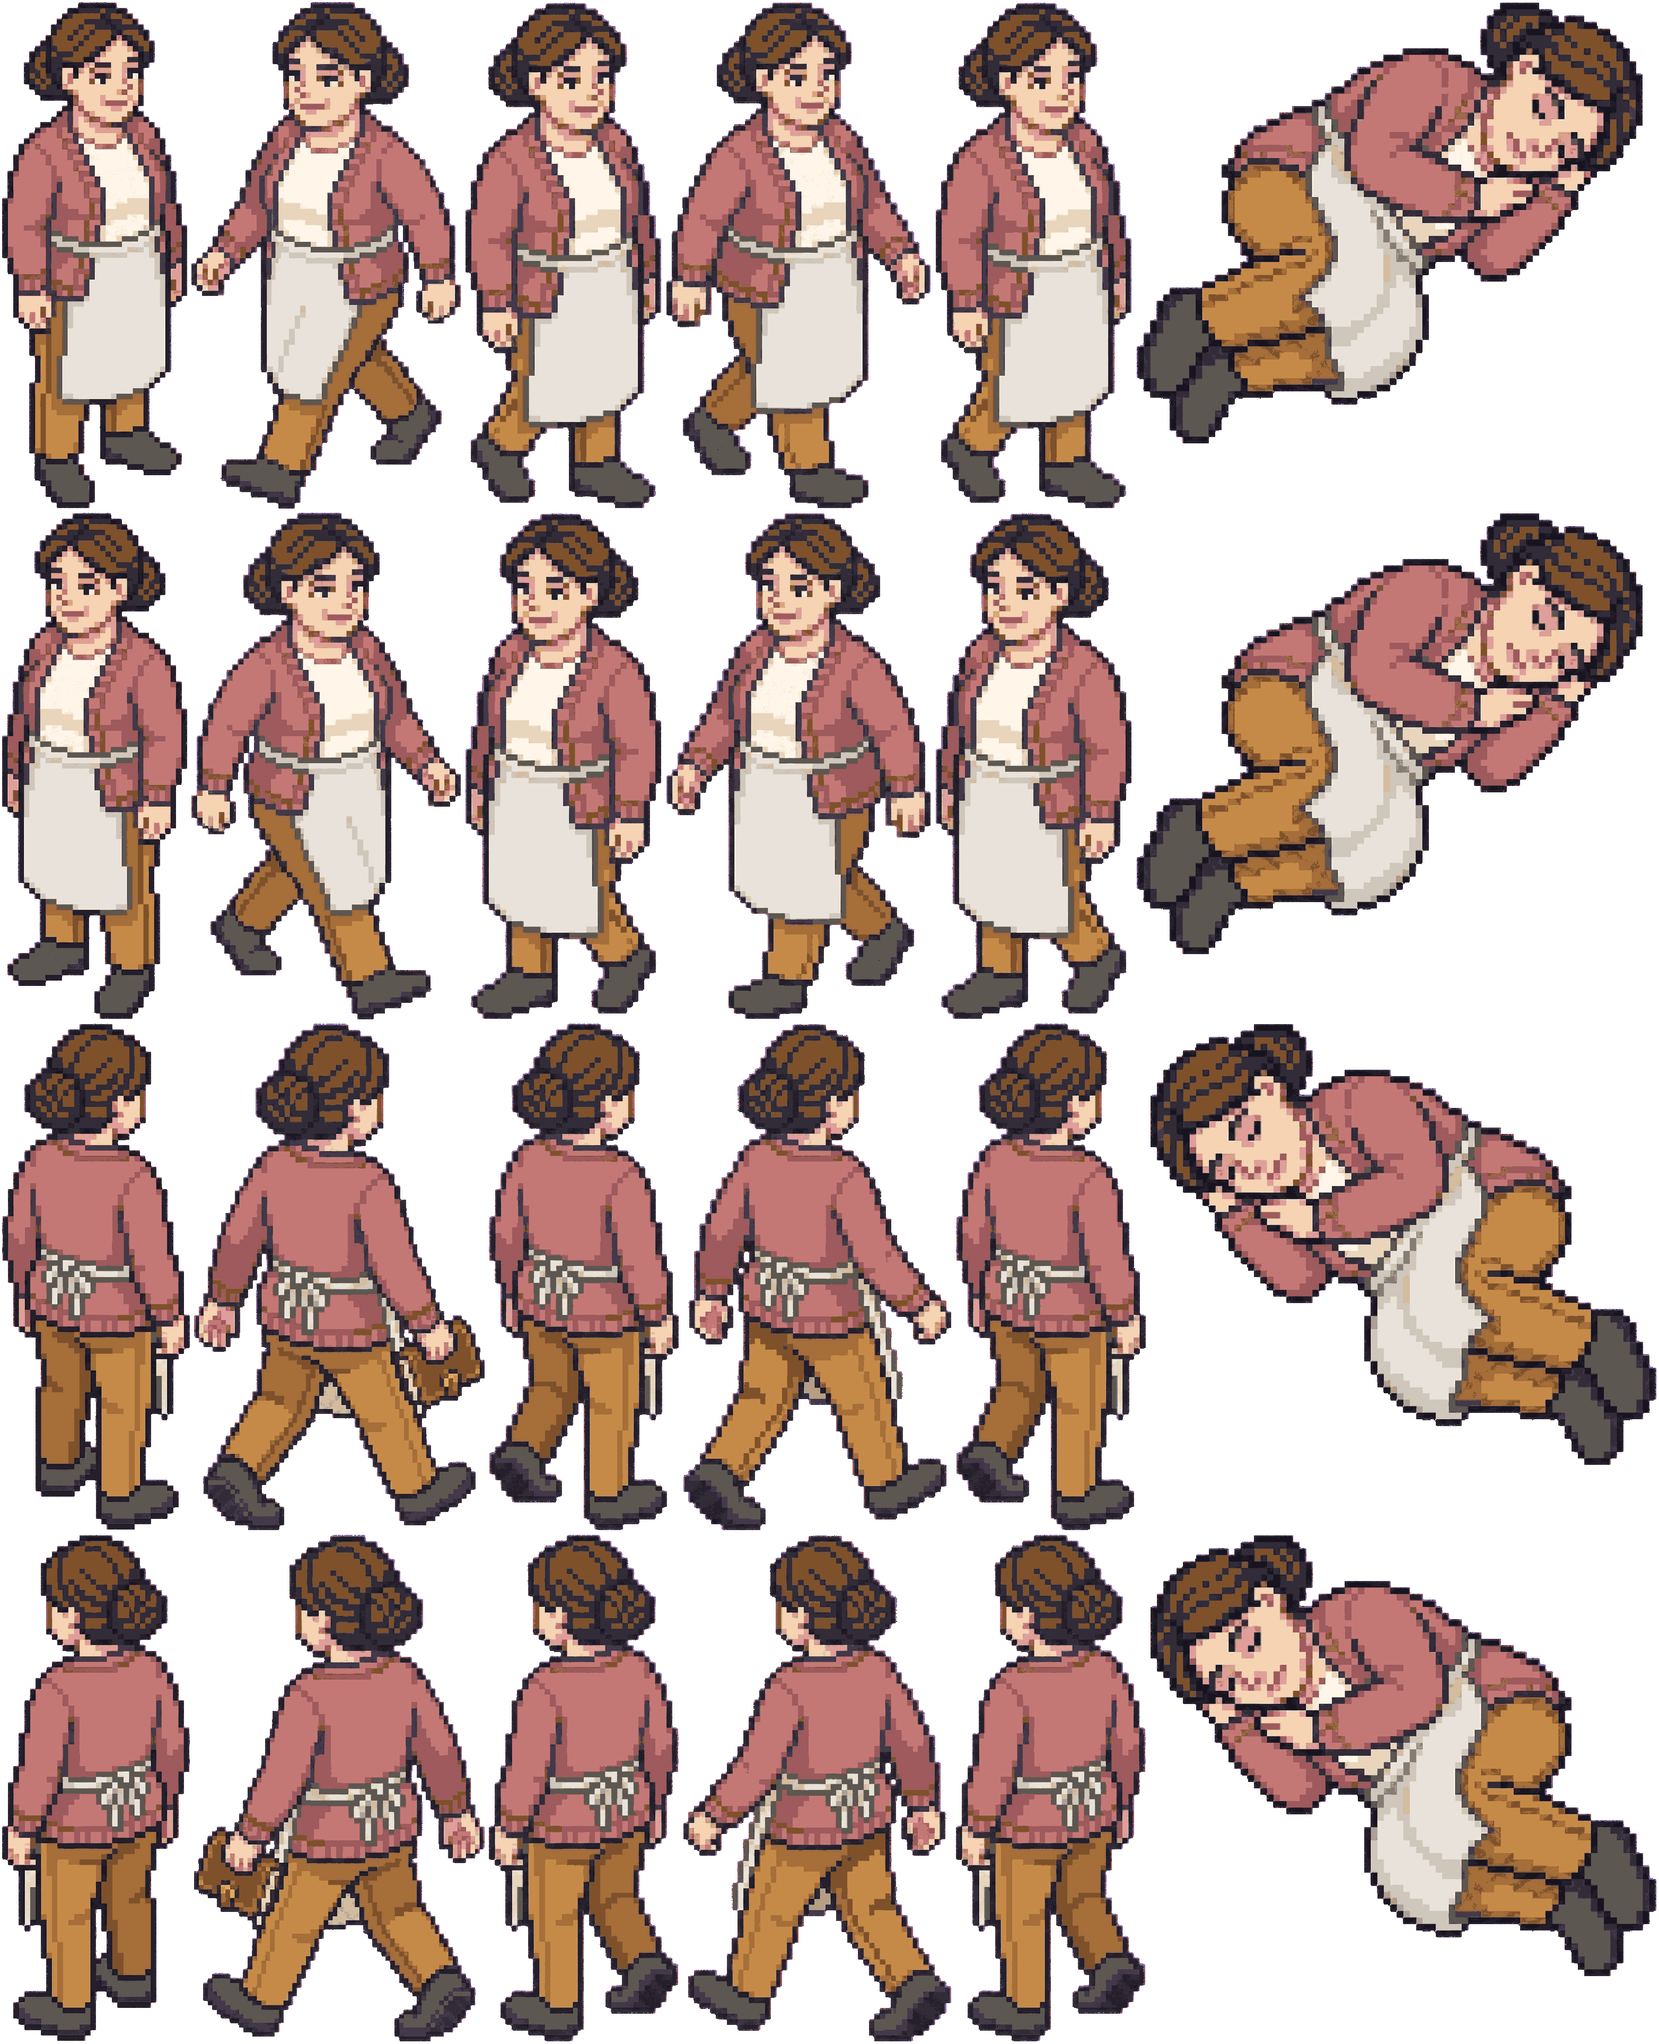
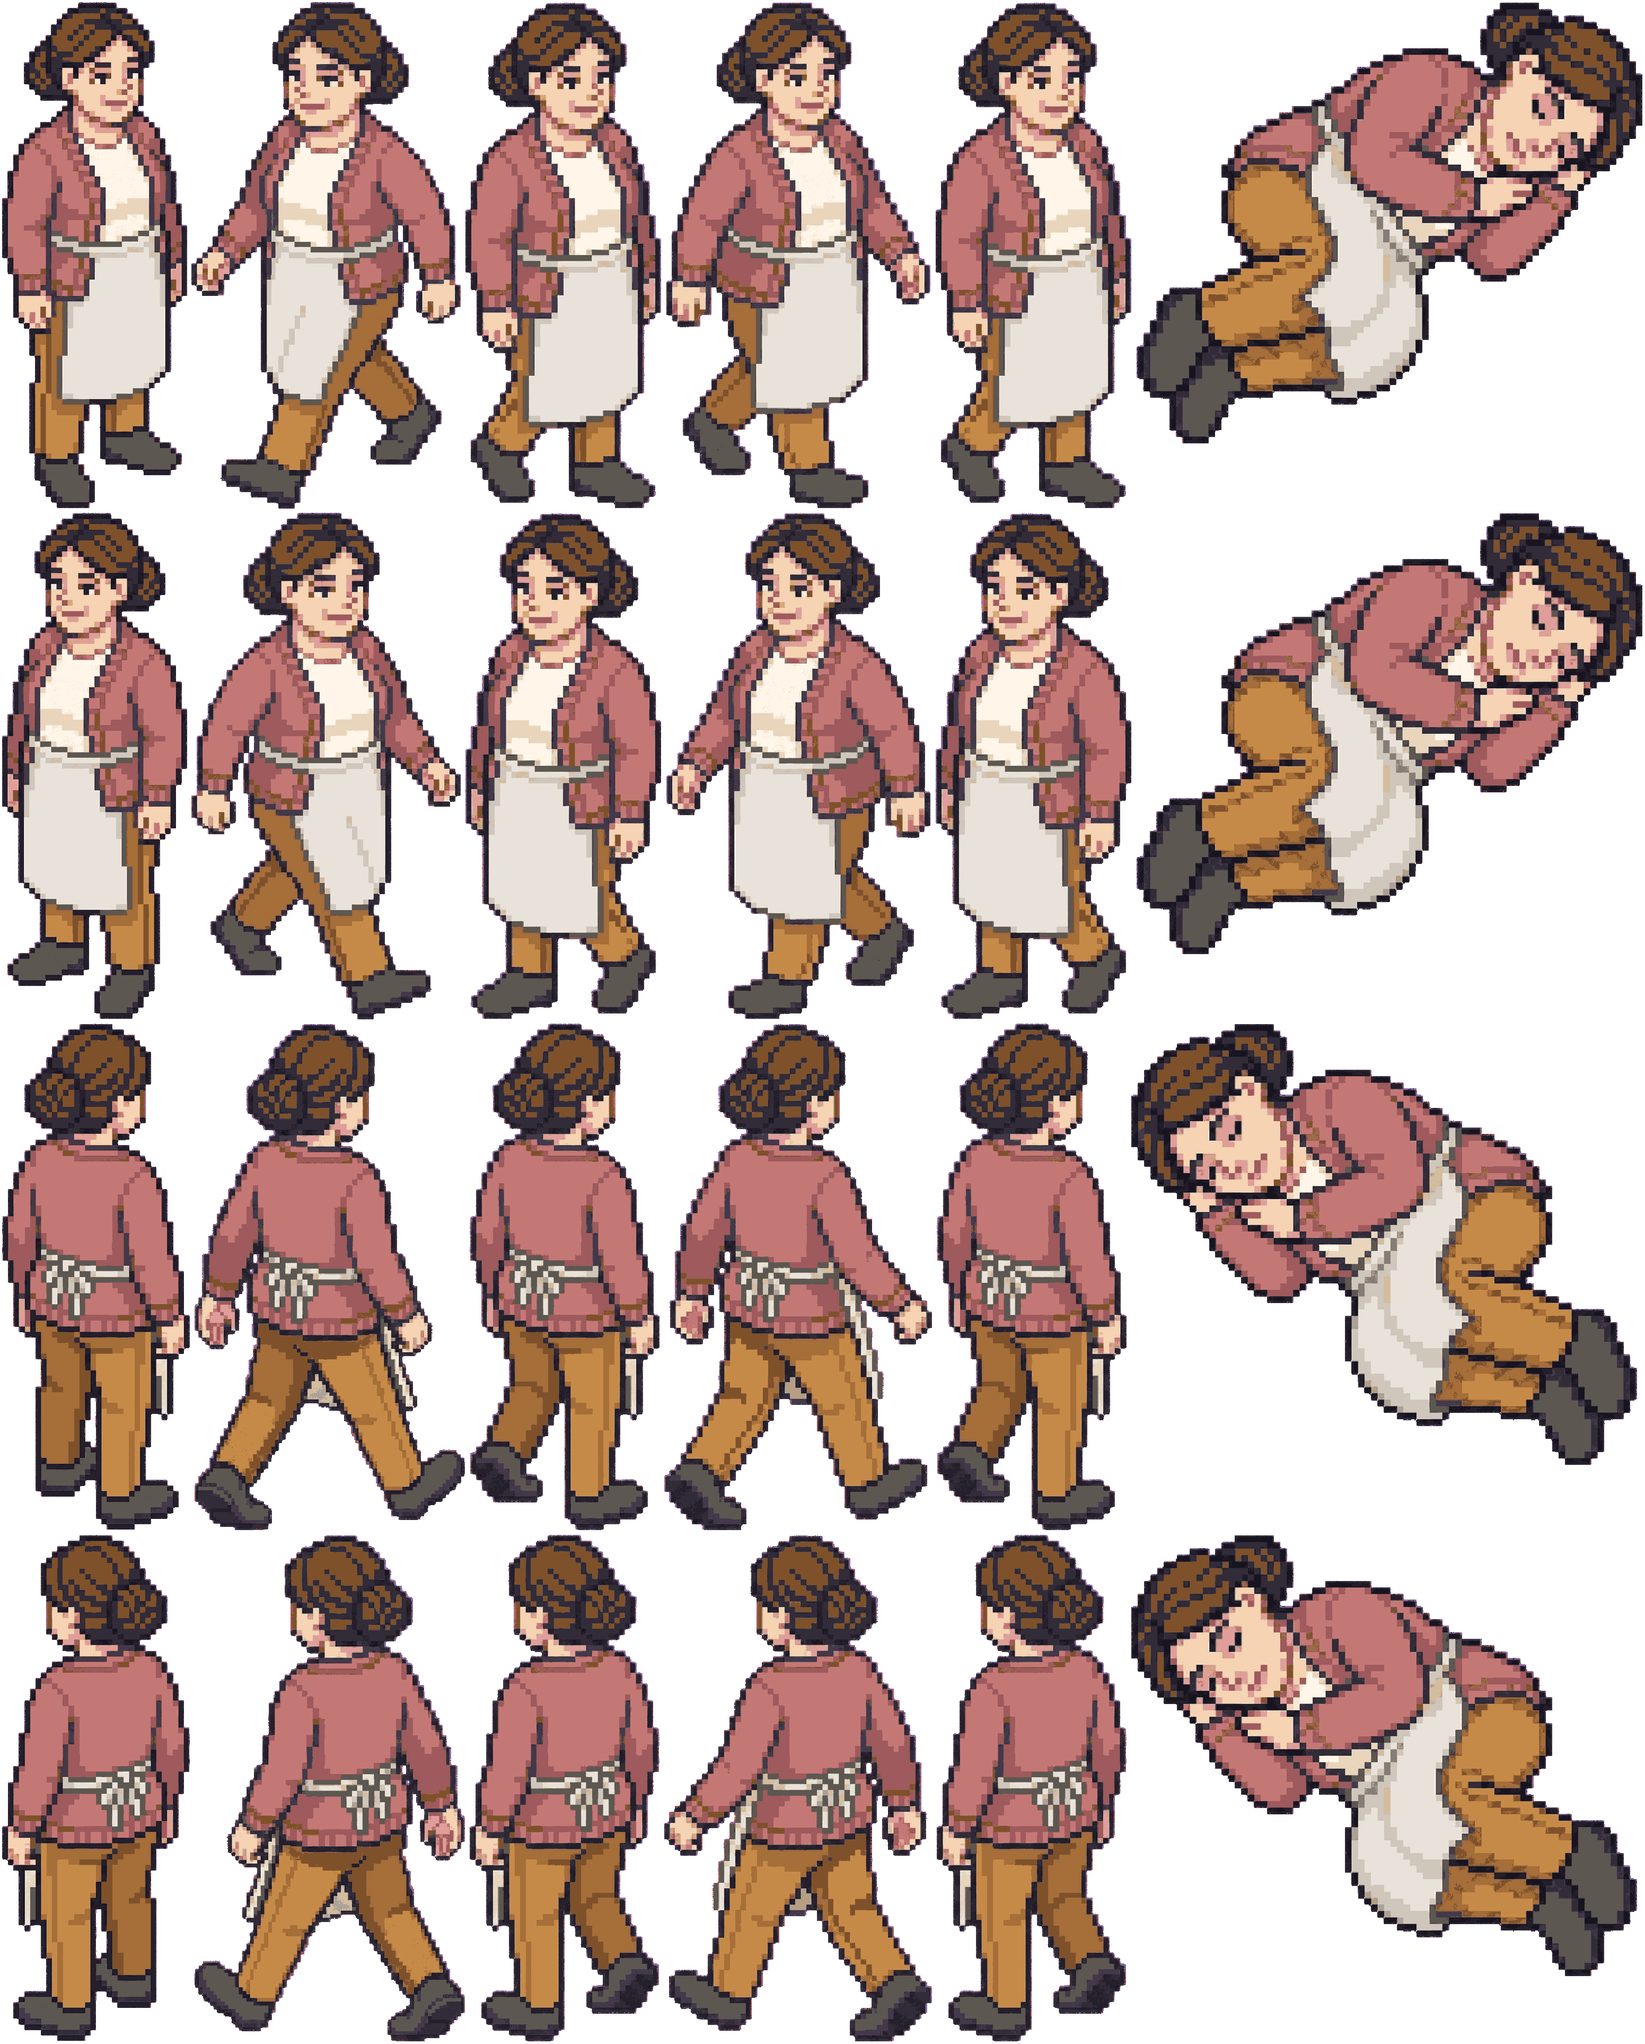
forge-gates T3: Salma is fixed, and the gate that let her replacement through
The second TACTICAL GEAR is gone. `salma ne/contact-a` — a large brown bundle
in her right hand in one frame of four, +24.3% opaque area, worse than the
1.1855 that shipped the caption — is a clean cell for $0.2750. Two cells of
twenty-four moved (contact-a-ne and its mirror); her ne stride trio still
passes; the SE strip is byte-identical. Debt: 4 -> 3.

★ THE FIRST REPLACEMENT WAS WORSE, AND FINDING OUT WHY IS THE POINT.

CAST_ATTEMPTS=6 drew c3, which cleared the generator on its first try. The
audit then red it: head 0.3366 against 0.20. I checked whether the metric was
the problem — headRegionDiff re-centres on each image's own bbox, and an
outstretched arm could have moved the head sideways — and measured it against
a feet-anchored variant across all 40 authored cells. They agree to 0.0003 on
the cell in question. The hypothesis was wrong; the head drift is real.

The actual cause: `coherenceGateV4`, which runs BEFORE the money is spent and
decides which candidate ships, asked palette + silhouette. `frameCoherenceGate`,
which runs AFTER over the committed cells, asks palette + silhouette + HEAD.
The pre-spend gate was a strict subset of the post-hoc audit. `omar
ne/contact-a` at 0.2379 is the same hole, already in the tree. And
`coherenceGateV4` had no test at all — the gate that chooses every walk frame
in the cast.

With the head term the generator rejected c3 on its own, drew c4 (palette),
[…]

diff --git a/packages/forge/src/mirror.test.ts b/packages/forge/src/mirror.test.ts
@@ -1,10 +1,12 @@
 import { readFileSync } from 'node:fs'
 import { describe, expect, it } from 'vitest'
 import { decodePng, type RawImage } from './post/raw.js'
-import { FACINGS, POSES_V2, mirrorX, opaqueBbox } from './sheet.js'
+import {
+  FACINGS, POSES_V2, HEAD_DIFF_MAX, frameCoherenceGate, mirrorX, opaqueBbox,
+} from './sheet.js'
 import {
   AUTHORED_FACINGS, CELL_NAMES_V4, STRIP_POSES_V4, WALK_CYCLE_V4,
-  deriveSheet, sleepAxisDeg, sleepAxisGate, type AuthoredSet,
+  coherenceGateV4, deriveSheet, sleepAxisDeg, sleepAxisGate, type AuthoredSet,
 } from './mirror.js'
 
 // 4×4 with a single opaque marker pixel — asymmetric so flips are detectable.
@@ -119,5 +121,58 @@ describe('sleepAxisGate', () => {
     const amara = await sleeper('amara')
     expect(sleepAxisGate(amara)).toHaveLength(1)
     expect(sleepAxisGate(mirrorX(amara))).toEqual([])
+  })
+})
+
+
+// ── ★ THE PRE-SPEND GATE MUST NOT BE WEAKER THAN THE POST-HOC AUDIT ───────────────────────
+//
+// `coherenceGateV4` decides which candidate a live-spend generator ships. `frameCoherenceGate`
+// asks the same question of the cells afterwards, in `castAudit.test.ts`. Until this lane the
+// first asked TWO questions and the second asked THREE — so a candidate could clear the gate
+// that costs money and red the gate that costs nothing, which is the worst way round.
+//
+// Measured, live: salma's regenerated `ne/contact-a` cleared the generator (silhouette and
+// palette clean) and reds the audit at head 0.3366 against 0.20. The gate had no head term to
+// stop it with. `omar ne/contact-a` at 0.2379 is the same hole, already in the tree.
+//
+// This file had NO test for `coherenceGateV4` at all before now — the gate that chooses every
+// walk frame in the cast.
+describe('★ coherenceGateV4 asks everything frameCoherenceGate asks', () => {
+  // Two bodies, same palette and same area, DIFFERENT HEADS: a 16-wide torso with a head
+  // block that moves. Area is equal to the pixel, so silhouette and palette cannot see it.
+  const body = (headX: number): RawImage => {
+    const w = 24, h = 24
+    const data = new Uint8ClampedArray(w * h * 4)
+    const put = (x: number, y: number) => {
+      const i = (y * w + x) * 4
+      data[i] = 190; data[i + 1] = 130; data[i + 2] = 90; data[i + 3] = 255
+    }
+    for (let y = 10; y < 22; y++) for (let x = 6; x < 18; x++) put(x, y)   // torso, identical
+    for (let y = 2; y < 9; y++) for (let x = headX; x < headX + 7; x++) put(x, y)  // head, moves
+    return { width: w, height: h, data }
+  }
+
+  const master = body(9)
+  const drifted = body(2)
+
+  it('★ RED on a head that moved, with the silhouette and the palette identical', () => {
+    const f = coherenceGateV4('cell', master, drifted)
+    expect(f.map((x) => x.gate), 'the head moved and only the head moved').toEqual(['head'])
+    expect(f[0]!.limit).toBe(HEAD_DIFF_MAX)
+    expect(f[0]!.value).toBeGreaterThan(HEAD_DIFF_MAX)
+  })
+
+  it('clean on the same body against itself', () => {
+    expect(coherenceGateV4('cell', master, body(9))).toEqual([])
+  })
+
+  // ★ THE PROPERTY, not the term. Whatever either gate learns to ask, they ask the same set —
+  // otherwise the money is spent behind the weaker one.
+  it('★ and the two gates agree on the same pair, term for term', () => {
+    const mine = coherenceGateV4('cell', master, drifted).map((x) => x.gate).sort()
+    const theirs = frameCoherenceGate('ne', master, [{ label: 'cell', img: drifted }])
+      .map((x) => x.gate).sort()
+    expect(mine, 'the pre-spend gate and the audit disagree about what is wrong').toEqual(theirs)
   })
 })

diff --git a/packages/forge/src/castAudit.test.ts b/packages/forge/src/castAudit.test.ts
@@ -83,9 +83,14 @@ function failuresOf(c: CommittedCharacter, atlas: RawImage): string[] {
 }
 
 /**
- * ★ THE DEBT, AS OF THIS SWEEP. Four cells, all of them in the cast; the 20 committed
- * buildings and the 50 committed items are clean. Two of the four are the TACTICAL GEAR
- * family — the model drew something that is not the character, and the gate said so.
+ * ★ THE DEBT, AS OF THIS SWEEP. THREE cells, all of them in the cast.
+ *
+ * It was four. `salma ne/contact-a` — the second TACTICAL GEAR, a large brown bundle in her
+ * right hand in one frame of four, +24.3 % opaque area against a ±18 % tolerance and WORSE
+ * than the 1.1855 that shipped the caption — was regenerated live for $0.0687 and is gone.
+ * The refusal the ruling installed is what made that happen: `gen-cast-v5` stopped on her
+ * three cached candidates instead of shipping the least-bad, `CAST_ATTEMPTS=6` drew a fourth,
+ * and the fourth passed. Two cells of twenty-four moved; her ne stride trio still passes.
  */
 export const KNOWN_GATE_DEBT: Record<string, string> = {
   // MINE, and named so it is not mistaken for the model's. The TACTICAL GEAR repair set
@@ -93,13 +98,6 @@ export const KNOWN_GATE_DEBT: Record<string, string> = {
   // back-facing walk cycles have no alternating stride. Clears when the strip is redrawn.
   'amara ne stride contact-a~contact-b':
     '0.0000 against 0.1085 — the TACTICAL GEAR repair, by construction',
-
-  // ★ THE SECOND TACTICAL GEAR. Salma's back-facing contact-a has a large brown bundle in her
-  // right hand that appears in NO other frame of the cycle: +24.3 % opaque area against a
-  // ±18 % tolerance, WORSE than the 1.1855 that shipped the caption. It is in the product —
-  // she flashes an object one frame in four walking away from the camera, in ne and nw.
-  'salma ne silhouette contact-a':
-    '1.2429 against 1.1800 — an object in her hand for one frame in four',
 
   // Omar's head moves 24 % between idle and contact-a in the back view. Legs move, heads do not.
   'omar ne head contact-a':
@@ -130,8 +128,8 @@ describe('★ the committed cast against the gates as they now behave', () => {
       'this entry passes now — delete it from KNOWN_GATE_DEBT').toEqual([])
   })
 
-  it('★ and the debt is FOUR cells, so a jump shows up in the diff', () => {
-    expect(Object.keys(KNOWN_GATE_DEBT)).toHaveLength(4)
+  it('★ and the debt is THREE cells, so a jump shows up in the diff', () => {
+    expect(Object.keys(KNOWN_GATE_DEBT)).toHaveLength(3)
   })
 })
 

diff --git a/packages/forge/src/mirror.ts b/packages/forge/src/mirror.ts
@@ -4,6 +4,7 @@
 import type { RawImage } from './post/raw.js'
 import {
   FACINGS, POSES_V2, mirrorX, cellDistance, paletteJaccard, opaqueArea, opaqueBbox,
+  headRegionDiff, silhouetteBound, HEAD_DIFF_MAX,
   PALETTE_JACCARD_MIN, SILHOUETTE_AREA_TOL, STRIDE_MIN_RATIO, CONTACT_PASSING_MIN_RATIO,
   type Facing, type PoseV2, type GateFailure,
 } from './sheet.js'
@@ -70,8 +71,18 @@ export function strideGateV4(facing: string, strip: Record<StripPoseV4, RawImage
   return failures
 }
 
-// The ONE coherence gate: palette-jaccard + silhouette (opaque area) vs the master's
+// The ONE coherence gate: palette-jaccard + silhouette (opaque area) + head, vs the master's
 // figure for the same view. Catches identity drift in edit calls; nothing else.
+//
+// ★ THE HEAD TERM WAS MISSING, AND THAT IS THE FINDING. This gate runs BEFORE the money is
+// spent and decides which candidate ships; `frameCoherenceGate` runs AFTER, over the committed
+// cells, in `castAudit.test.ts`. It asks three questions and this one asked two — so the
+// pre-spend gate was a STRICT SUBSET of the post-hoc audit and a candidate could clear the one
+// that costs money and red the one that costs nothing. Two of the cast's known debts are
+// exactly that: `omar ne/contact-a` at 0.2379, and salma's first replacement `ne/contact-a`,
+// drawn live in this lane, at 0.3366 — clean on silhouette and palette, and a different head.
+// Legs move between walk frames; heads do not, and the number that says so was only ever read
+// after the fact.
 export function coherenceGateV4(label: string, master: RawImage, cell: RawImage): GateFailure[] {
   const failures: GateFailure[] = []
   const jac = paletteJaccard(master, cell)
@@ -79,7 +90,10 @@ export function coherenceGateV4(label: string, master: RawImage, cell: RawImage)
     failures.push({ gate: 'palette', a: label, b: 'master', value: jac, limit: PALETTE_JACCARD_MIN })
   const areaRatio = opaqueArea(cell) / opaqueArea(master)
   if (Math.abs(areaRatio - 1) > SILHOUETTE_AREA_TOL)
-    failures.push({ gate: 'silhouette', a: label, b: 'master', value: areaRatio, limit: SILHOUETTE_AREA_TOL })
+    failures.push({ gate: 'silhouette', a: label, b: 'master', value: areaRatio, limit: silhouetteBound(areaRatio) })
+  const head = headRegionDiff(master, cell)
+  if (head > HEAD_DIFF_MAX)
+    failures.push({ gate: 'head', a: label, b: 'master', value: head, limit: HEAD_DIFF_MAX })
   return failures
 }
 

diff --git a/packages/forge/src/gate.test.ts b/packages/forge/src/gate.test.ts
@@ -3,6 +3,7 @@ import { join } from 'node:path'
 import { fileURLToPath } from 'node:url'
 import { describe, it, expect } from 'vitest'
 import { mechanicalGate, refusalMessage } from './gate.js'
+import { SILHOUETTE_AREA_TOL, silhouetteBound } from './sheet.js'
 import { paletteRgb } from './palette.js'
 
 const pal = paletteRgb()
@@ -111,6 +112,27 @@ describe('gen-cast-v5 ships nothing that failed a gate', () => {
   it('reads the attempt knob its own header has documented since v4', () => {
     expect(src).toContain("process.env['CAST_ATTEMPTS']")
     expect(src, 'a hard-coded attempt count is left somewhere').not.toMatch(/for \(let i = 0; i < 3; i\+\+\)/)
+  })
+})
+
+// ── ★ AND THE MARGIN IN THAT MESSAGE HAS TO BE THE REAL ONE ───────────────────────────────
+//
+// Measured live in this lane: the refusal for salma's `ne/contact-a` read
+//   `silhouette: ... 1.2429 against 0.1800 (off by 1.0629)`
+// because `silhouette` is the one gate whose VALUE is a ratio around 1 while its threshold is
+// a half-width, and it put the half-width in `limit`. The true miss is 0.0629. Overstating it
+// SEVENTEEN-FOLD defeats the only purpose the message has — telling an operator a threshold
+// that is 0.5 % too tight from a model that cannot draw the thing.
+describe('★ a failure reports the bound it crossed, not the tolerance', () => {
+  it('names the upper bound for a body that grew, and the lower for one that shrank', () => {
+    expect(silhouetteBound(1.2429)).toBeCloseTo(1.18, 10)
+    expect(silhouetteBound(0.5000)).toBeCloseTo(0.82, 10)
+  })
+
+  it("★ so |value - limit| is the real margin, which is what an operator reads", () => {
+    expect(Math.abs(1.2429 - silhouetteBound(1.2429))).toBeCloseTo(0.0629, 4)
+    // the shape it used to have, kept as the number NOT to print
+    expect(Math.abs(1.2429 - SILHOUETTE_AREA_TOL)).toBeCloseTo(1.0629, 4)
   })
 })
 

diff --git a/packages/forge/src/sheet.ts b/packages/forge/src/sheet.ts
@@ -1162,6 +1162,15 @@ export const PALETTE_JACCARD_MIN = 0.80
 export const PALETTE_EPS = 8 // per-channel single-linkage radius, as in v7 clusterDominant
 export const PALETTE_MIN_SHARE = 0.01 // clusters under 1% of opaque pixels are speckle, not palette
 export const SILHOUETTE_AREA_TOL = 0.18
+
+// ★ `limit` IS THE BOUND THE VALUE CROSSED, NOT THE TOLERANCE. Every reader of a GateFailure
+// prints `value against limit (off by |value - limit|)`, and silhouette is the one gate whose
+// value is a RATIO around 1 while its tolerance is a half-width. Reporting 0.18 there made the
+// refusal message say salma's `ne/contact-a` missed by 1.0629 when it missed by 0.0629 —
+// SEVENTEEN TIMES the real margin, in the one artifact whose whole job is to let an operator
+// tell a threshold that is slightly too tight from a model that cannot draw the thing.
+export const silhouetteBound = (areaRatio: number): number =>
+  areaRatio > 1 ? 1 + SILHOUETTE_AREA_TOL : 1 - SILHOUETTE_AREA_TOL
 export const HEAD_REGION_FRAC = 0.40
 export const HEAD_DIFF_MAX = 0.20 // v1 legit frames measure ≤0.123; sw~se cross-facing measures 0.269
 
@@ -1334,7 +1343,7 @@ export function frameCoherenceGate(facing: string, idle: RawImage,
       failures.push({ gate: 'palette', a, b: idleLabel, value: jac, limit: PALETTE_JACCARD_MIN })
     const areaRatio = opaqueArea(img) / idleArea
     if (Math.abs(areaRatio - 1) > SILHOUETTE_AREA_TOL)
-      failures.push({ gate: 'silhouette', a, b: idleLabel, value: areaRatio, limit: SILHOUETTE_AREA_TOL })
+      failures.push({ gate: 'silhouette', a, b: idleLabel, value: areaRatio, limit: silhouetteBound(areaRatio) })
     const head = headRegionDiff(idle, img)
     if (head > HEAD_DIFF_MAX)
       failures.push({ gate: 'head', a, b: idleLabel, value: head, limit: HEAD_DIFF_MAX })
